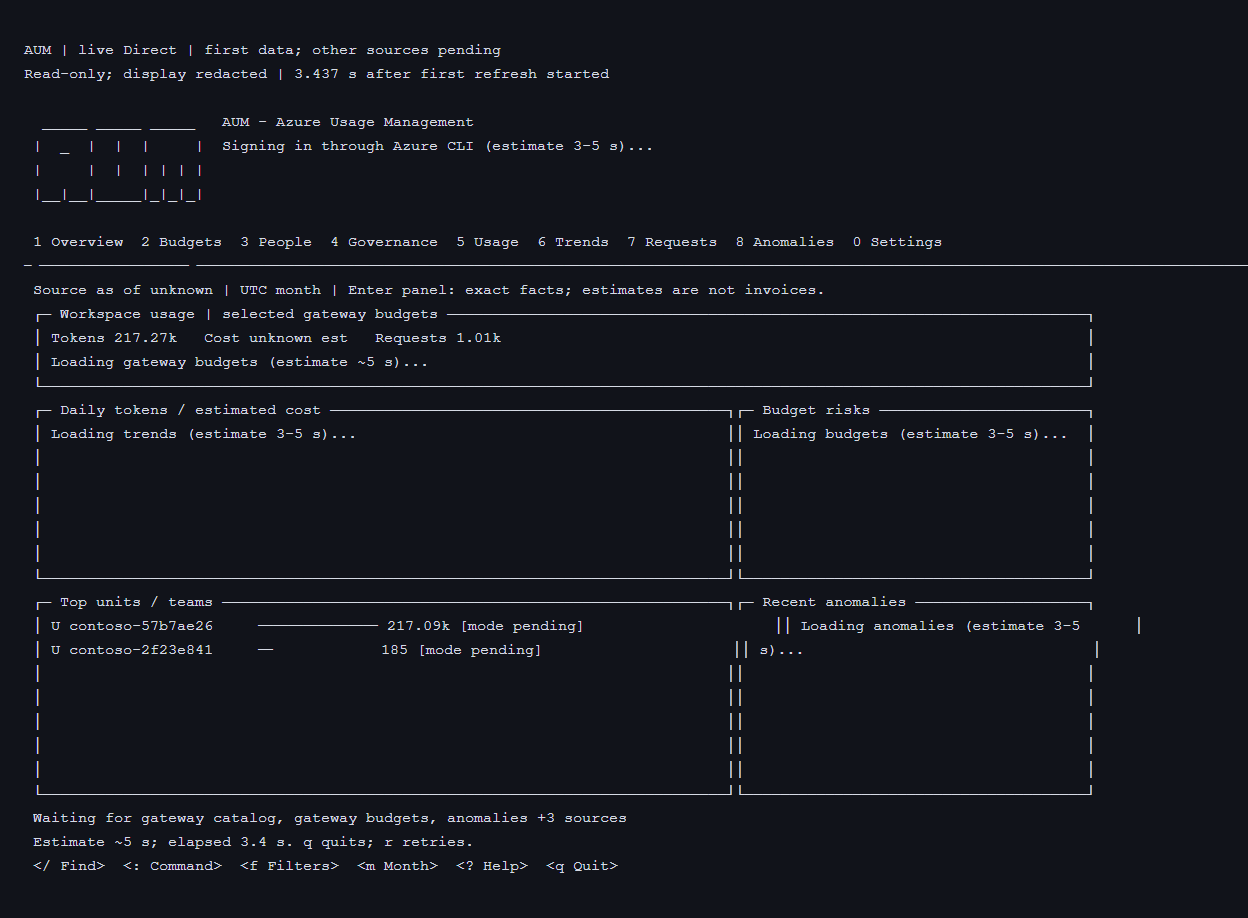
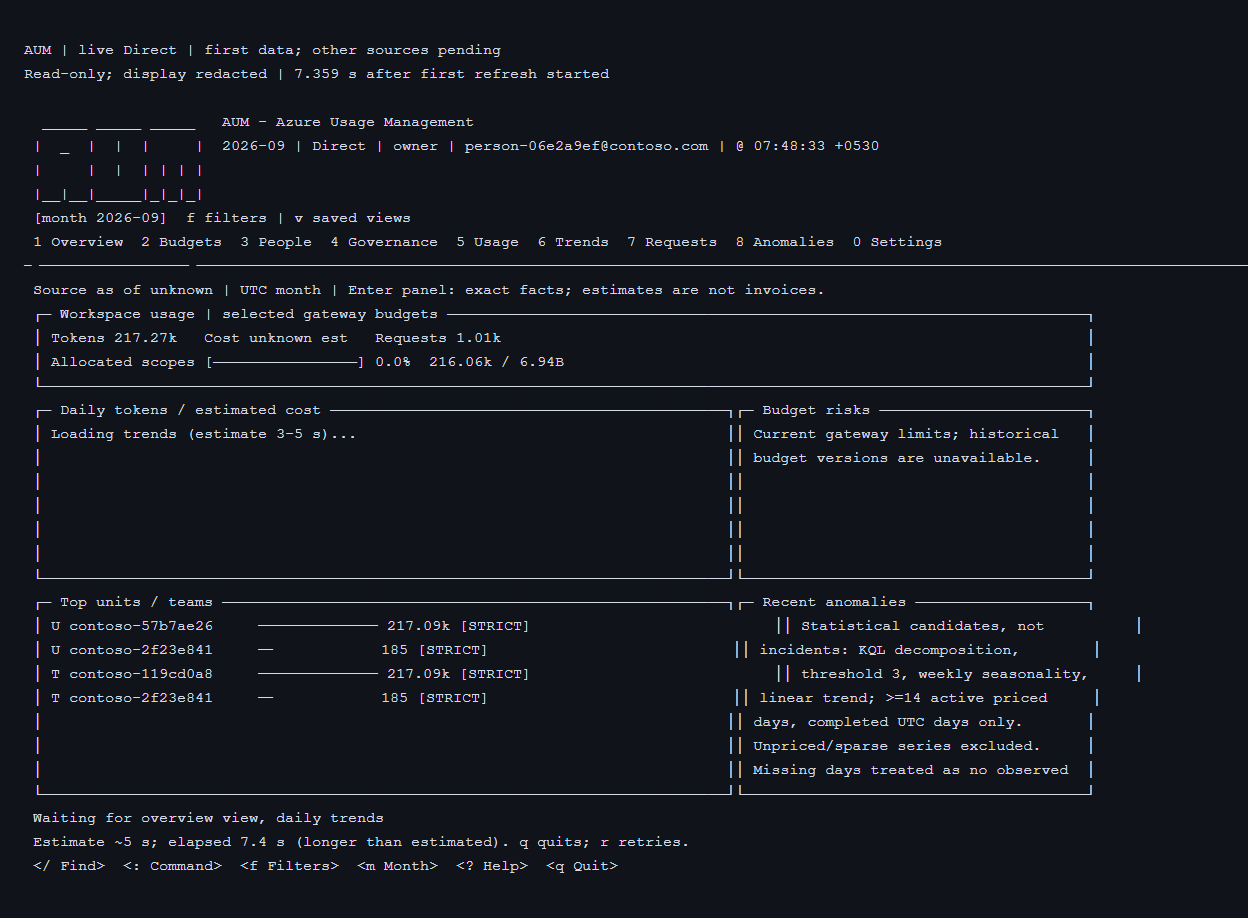
docs(p71): record integrated council fixes and regenerated evidence
Keep main 38ad175's P72 ledger intact after normal merge bf4de20. Record
436 passing AUM tests, 24 caught round-one mutations and live read limits.
Regenerate source-bound architecture and inspected Direct captures for
principal/session-aware reads; retain original Turnstile state evidence.

Copilot-Session: 1c966b06-b3de-42c0-9254-3a62ae5081bc

diff --git a/docs/STATUS.md b/docs/STATUS.md
@@ -149,7 +149,7 @@ historical evidence, not acceptance of these findings.
 | QA | BLOCK | Q1: the deadline test can pass on an immediate launch failure | `12b5c38`: real process creation plus child/grandchild markers and PID exit checks; original 150 ms bound retained; five C1/Q1 mutations caught at all seven cases |
 | UX | BLOCK | U1: a fatal Direct data result waits behind identity/capabilities | `16fc0a7`: fatal completion is observed alongside either metadata stage; partial data clears and edits disable immediately; two mutations caught at all 17 UI cases |
 | Security | BLOCK | S1: resource credentials survive a principal change | `3176bd3`: verified principal/session generations bind reuse; Direct verifies one account per cycle, rejects stale sends/results; HTTP identity credentials refresh and old responses are rejected; nine mutations caught at all 23 credential cases |
-| Security | BLOCK | S2: changed public text contains deployment identifiers | P71 and the U32 row/section use the same synthetic server/group aliases as capture 60; a public-evidence detector checks both |
+| Security | BLOCK | S2: changed public text contains deployment identifiers | `8d44530`: P71 and the U32 row/section use capture 60's synthetic aliases; privacy/U37/TEMP mutations caught at all five cases |
 
 Related corrections: the P71 single-server assumption moves from U35 to U37
 (P70 owns U35; P72 owns U36); batch-read fixtures move to TEMP; the Direct
@@ -183,6 +183,30 @@ task; it also ignores delayed activation events from a previous pane. The
 existing rapid-navigation test and two new deterministic lifecycle tests pin
 those behaviors. Two mutations fail the full 20-case lifecycle selector, and
 the restored navigation/snapshot selection passes 35 cases.
+
+Normal merge **`bf4de20`** integrates `main` **`38ad175`**. Conflicts in CHANGELOG
+and UNKNOWNS retain both packets; U36 and every other non-P71 unknown row remain.
+The diff against main contains the P71 section, P71 changelog additions and
+P71-owned U26/U32/U37 edits only; ROADMAP is identical to main and P71 is unticked.
+The merged worktree's `Test-FinOps.ps1` passed **436 tests with no warnings**.
+
+Round 1 adds **24 caught mutations**: A1 2 (11-case selector), C1/Q1 5 (7),
+U1 2 (17), S1 9 (23), privacy/U37/TEMP 4 (5), lifecycle 2 (20). Each mutation
+ran the complete selector and failed before byte-for-byte restoration.
+The 59 original receipts remain historical evidence; the cumulative count is 83.
+Both PowerShell hosts still execute the 14/14 batch-read assertions, now in TEMP.
+
+A read-only check during the full-suite run returned current Direct data at
+8.015 s and completed at 8.843 s. Turnstile credential/metadata reads exceeded
+their short deadline and returned explicit unverified exit 7 in 3.473-3.640 s;
+the terminal did so in 2.625 s after refresh start. No stopped-server diagnosis
+or successful running-backend read is claimed for that loaded sample. The
+database was neither stopped nor started in this round.
+The updated Direct captures show a later read at **7.359 s** first data and
+**7.718 s** complete; the current account/RBAC header was already available.
+Capture 60 (stopped) and 63 (running Turnstile) remain dated original-packet
+evidence; this round did not recreate either resource state. Updated captures
+61/62 and the U37/principal-bound architecture image were inspected.
 
 Implementation is on `p71-aum-speed`, based on `aa7ed19`. The packet gate passed
 at `84bddeb`; the lead owns the council review and merge. The ROADMAP box remains

diff --git a/docs/ARCHITECTURE.md b/docs/ARCHITECTURE.md
@@ -495,12 +495,15 @@ and writes invalidate read snapshots rather than using cached preflight state.
 The stopped-database diagnostic reads ARM metadata in the recorded Turnstile
 group after an authenticated readiness failure. Its credential may be acquired
 concurrently, but no healthy-path database inventory or automatic start is added.
+Council round 1 binds resource reuse to a verified principal/session, checks the
+Direct account once per read cycle, and rejects obsolete in-flight results.
+Fatal data errors are observed concurrently with identity and capability reads.
 
 ![AUM readiness uses bounded authenticated HTTP and read-only Azure diagnosis; Direct shares a snapshot and returns independent sources progressively.](images/architecture/aum-readiness.png)
 
 Source: [15-aum-readiness.json](architecture/15-aum-readiness.json). The Windows
 MSI launcher runs its existing Python entry point directly; other command
-wrappers and their children have an owned process timeout boundary.
+wrappers are created suspended, assigned to their timeout job, then resumed.
 
 ## Optional independent AUM service (P55)
 

diff --git a/CHANGELOG.md b/CHANGELOG.md
@@ -38,6 +38,9 @@ exact streaming cache-creation detail remains **U13**.
   cleanup. Existing scope checks, preview/write rules and settled terminal
   snapshots remain. [AUM](docs/AUM.md#read-latency-and-progress),
   [ADR-0035](docs/adr/0035-aum-bounded-readiness-and-progressive-reads.md).
+  Council fixes bind credential reuse to verified principal/session generations,
+  contain wrappers before execution, share one monotonic credential deadline,
+  and surface fatal query errors while identity/capabilities are pending.
 - **Permutation tests of the guided flow and the installer (P72).** `tests/Test-FlowPermutations.ps1`
   runs the orchestrator over Setup, Change foundation, Guide and Status × six record states ×
   attended, `-PlanOnly` and unattended apply (76 runs, some on Windows PowerShell 5.1), a recorded

diff --git a/docs/AUM.md b/docs/AUM.md
@@ -482,6 +482,9 @@ The P71 live measurements and their method are in
 [STATUS](STATUS.md#p71-aum-answers-fast-and-says-why-it-cannot-2026-09-28).
 These captures use live read-only sources with display redaction, not examples:
 [provenance and hashes](guide/aum-p71-captures.json).
+Direct captures 61/62 were refreshed after the council's principal-binding fix.
+The stopped/running Turnstile captures 60/63 retain their original dated
+provenance; the correction round changed no database state.
 
 ![Live Direct first data while the remaining sources are still pending.](guide/aum-61-direct-progressive.png)
 
